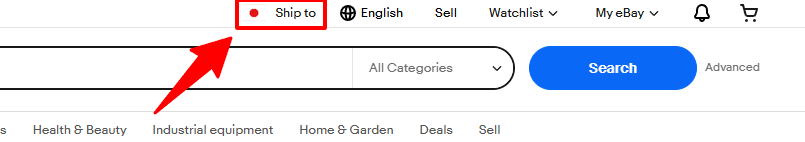
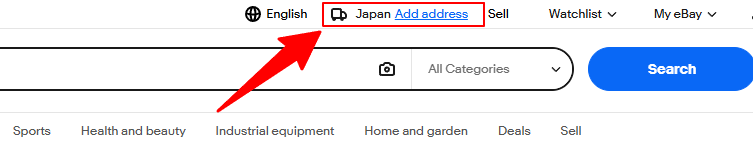
docs: update Ship To verification screenshots and steps in research_before.md

Changed region(s): [[0.0, 0.0, 1.0, 0.9577]]

diff --git a/manual-v2/docs/research_before.md b/manual-v2/docs/research_before.md
@@ -43,10 +43,10 @@ Ship Toとは「商品のお届け先情報」のことです。
 <div class="step-card" markdown="1">
 <div class="step-header">
   <span class="step-number">STEP 01</span>
-  <span class="step-title">画面右上の国旗を確認</span>
+  <span class="step-title">画面上部のお届け先を確認</span>
 </div>
 
-画面右上の国旗を確認します。
+画面上部のお届け先（Japan Add address）を確認します。
 
 ![Ship To確認](images/research_before/ship1.png)
 </div>
@@ -57,7 +57,7 @@ Ship Toとは「商品のお届け先情報」のことです。
   <span class="step-title">お届け先をアメリカに変更</span>
 </div>
 
-日本になっている場合は「Ship to」をクリックし、プルダウンから「United States（アメリカ）」を選択します。
+お届け先をクリックし、プルダウンから「United States」を選択します。
 
 ![Ship To変更](images/research_before/ship2.png)
 </div>
@@ -68,7 +68,7 @@ Ship Toとは「商品のお届け先情報」のことです。
   <span class="step-title">設定を適用する</span>
 </div>
 
-「Done」をクリックして適用します。
+「Confirm」をクリックして適用します。
 
 ![Ship To確認](images/research_before/ship3.png)
 </div>
